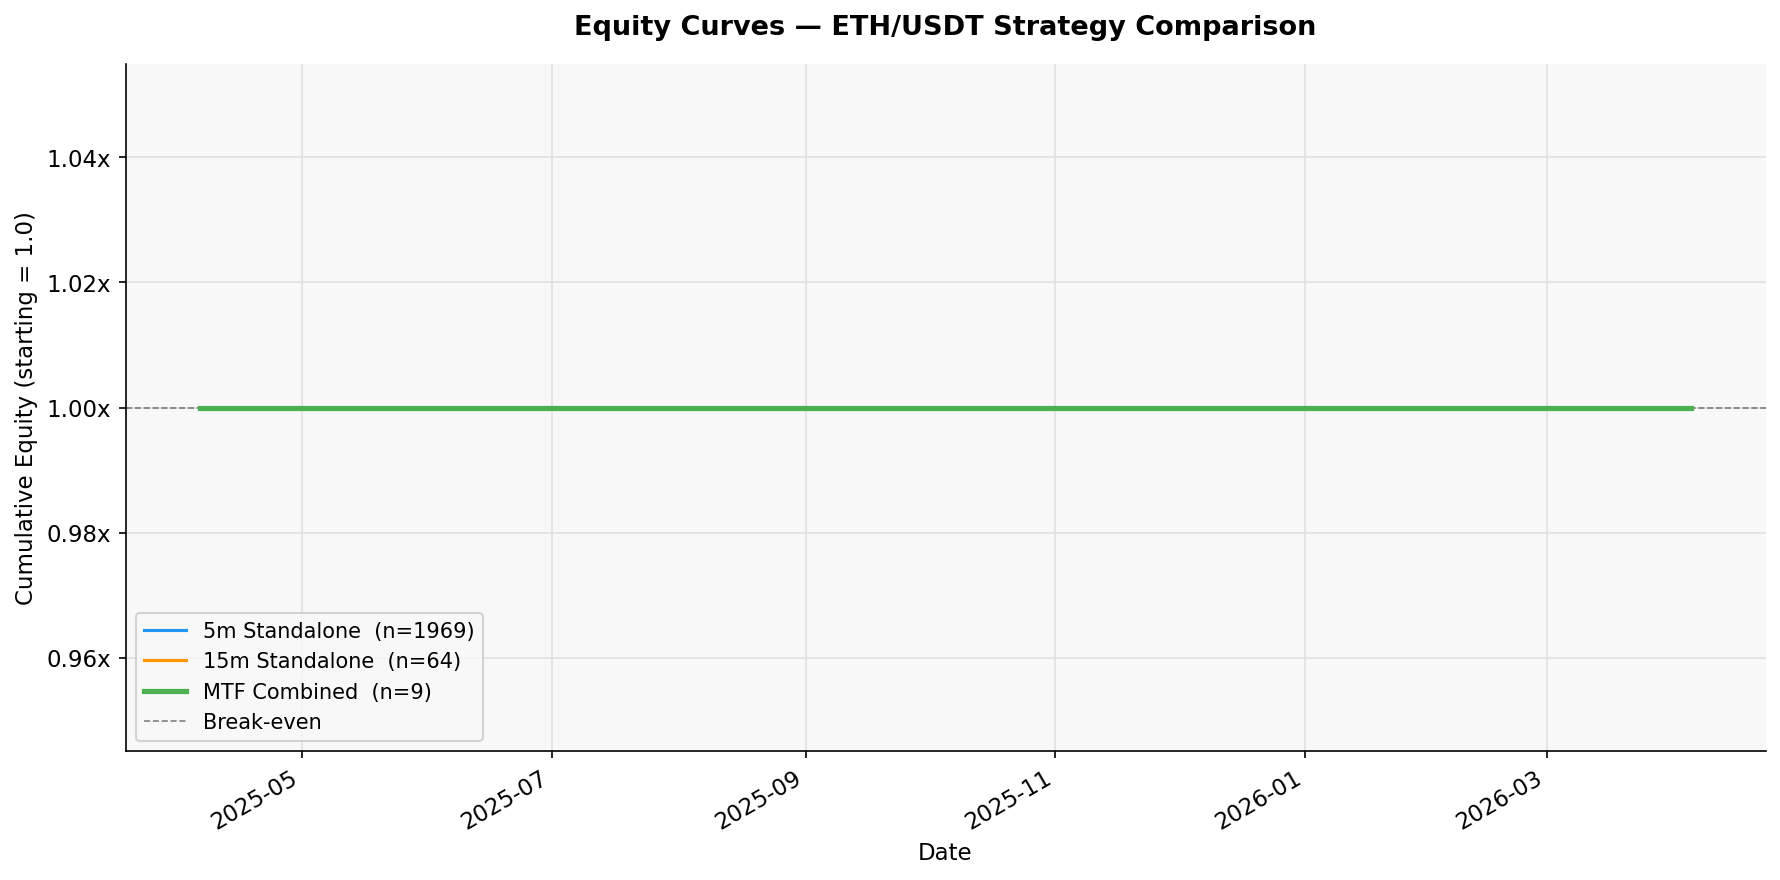
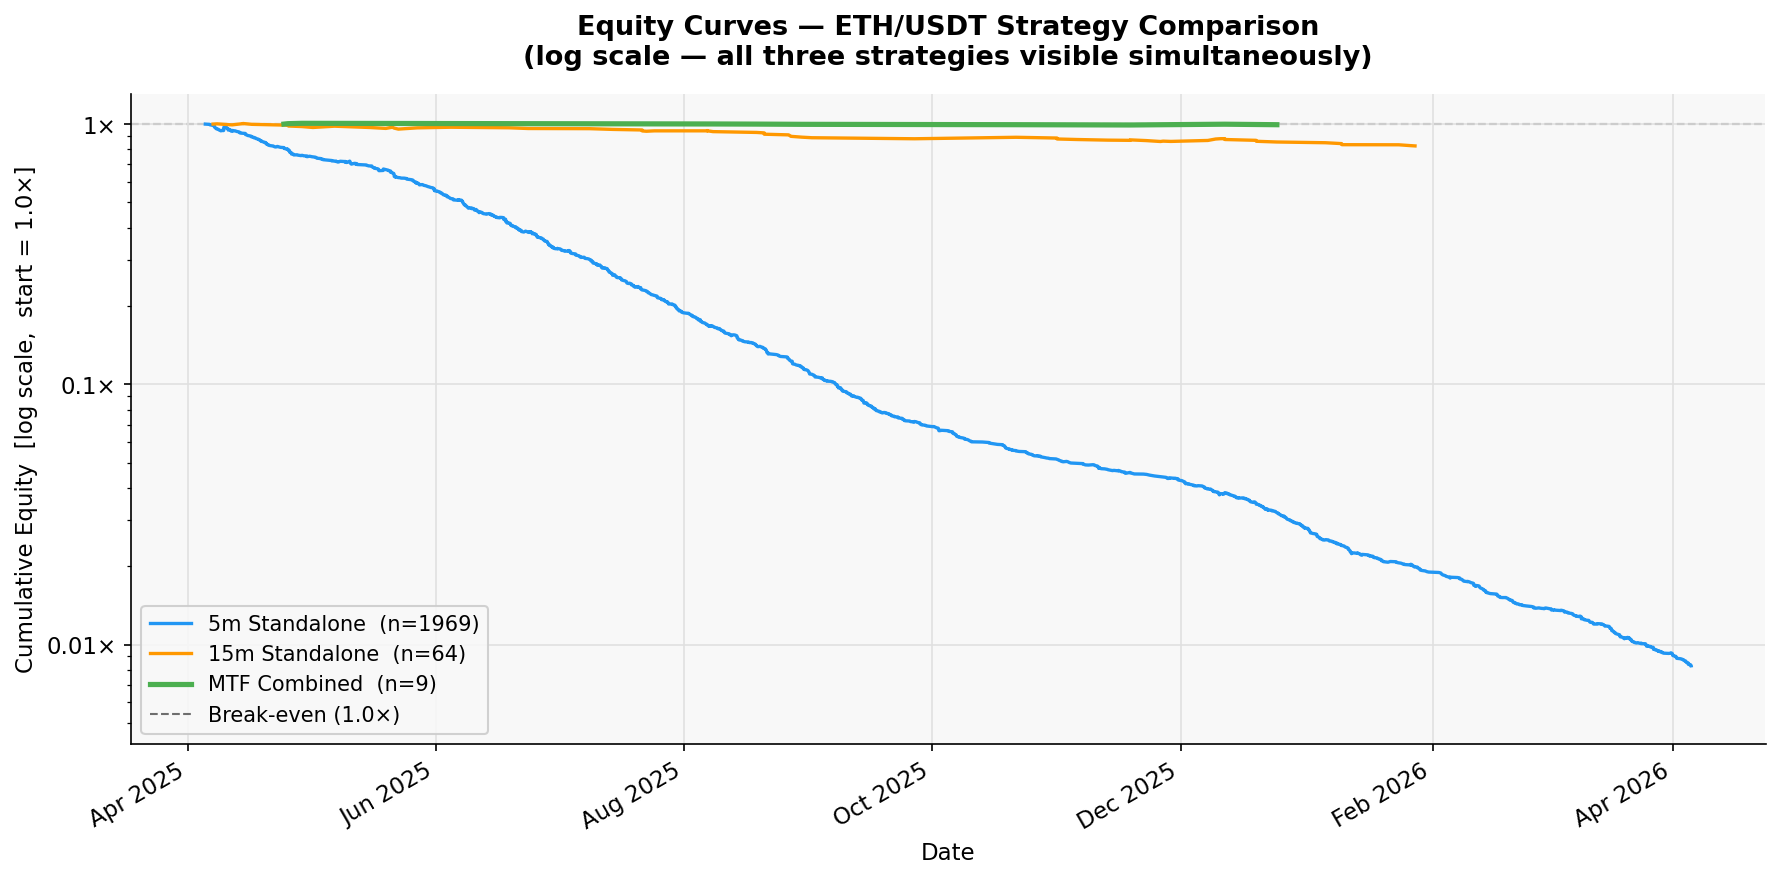
Fix equity curve Y-axis scaling
- Switch to log Y-axis so all three curves are visible simultaneously
  (5m collapses to 0.0083x, MTF stays near 1.0 — 120x range difference)
- Compute equity per-trade rather than daily resample, which was causing
  matplotlib autoscale to anchor on the MTF curve (nearly flat near 1.0)
  and clip the 5m collapse entirely off the chart
- Y limits set explicitly from 50% below actual minimum to 30% above max
- Tick labels formatted as multipliers (0.01x, 0.1x, 1.0x)
- Date axis formatted Month Year at 2-month intervals

diff --git a/fix_equity_curve.py b/fix_equity_curve.py
@@ -1,0 +1,125 @@
+"""
+fix_equity_curve.py
+Regenerates figures/equity_curve_comparison.png with:
+  - Log Y-axis so all three curves are visible simultaneously
+  - Y-axis anchored at 1.0 start, ranging from actual minimum to above 1.0
+  - Equity computed by cumulative product at each trade (not daily resample),
+    then plotted against trade-entry date for accuracy
+"""
+
+import math
+import pandas as pd
+import matplotlib
+matplotlib.use('Agg')
+import matplotlib.pyplot as plt
+import matplotlib.ticker as mticker
+import matplotlib.dates as mdates
+
+plt.rcParams.update({
+    'figure.dpi':        150,
+    'figure.facecolor':  'white',
+    'axes.facecolor':    '#f8f8f8',
+    'axes.grid':         True,
+    'grid.color':        '#e0e0e0',
+    'grid.linewidth':    0.8,
+    'axes.spines.top':   False,
+    'axes.spines.right': False,
+    'font.family':       'DejaVu Sans',
+    'font.size':         11,
+    'axes.titlesize':    13,
+    'axes.labelsize':    11,
+    'legend.fontsize':   10,
+    'legend.framealpha': 0.90,
+})
+
+PALETTE = {
+    '5m Standalone':  '#2196F3',
+    '15m Standalone': '#FF9800',
+    'MTF Combined':   '#4CAF50',
+}
+
+
+def load_trades(path):
+    df = pd.read_csv(path)
+    df['timestamp'] = pd.to_datetime(df['timestamp'])
+    return df.sort_values('timestamp').reset_index(drop=True)
+
+
+def equity_curve(trades_df):
+    """
+    Returns a (timestamps, equity_values) pair.
+    Equity starts at 1.0 before the first trade and updates at each
+    trade exit — no daily resampling, so the full collapse is preserved.
+    """
+    if trades_df.empty:
+        return pd.Series(dtype=float)
+    pnl = trades_df['pnl_pct'].values / 100.0
+    eq  = [1.0]                           # starting equity
+    ts  = [trades_df['timestamp'].iloc[0] - pd.Timedelta(days=1)]  # anchor point
+    cumulative = 1.0
+    for i, r in enumerate(pnl):
+        cumulative *= (1.0 + r)
+        eq.append(cumulative)
+        ts.append(trades_df['timestamp'].iloc[i])
+    return pd.Series(eq, index=ts)
+
+
+trades_5m  = load_trades('paper_outputs/mtf_trades_5m.csv')
+trades_15m = load_trades('paper_outputs/mtf_trades_15m.csv')
+trades_mtf = load_trades('paper_outputs/mtf_trades_combined.csv')
+
+eq5   = equity_curve(trades_5m)
+eq15  = equity_curve(trades_15m)
+eqmtf = equity_curve(trades_mtf)
+
+# Debug — confirm curves reach expected ranges
+for name, eq in [('5m', eq5), ('15m', eq15), ('MTF', eqmtf)]:
+    print(f'  {name}: start={eq.iloc[0]:.4f}  end={eq.iloc[-1]:.4f}  '
+          f'min={eq.min():.4f}  max={eq.max():.4f}')
+
+# ── Plot ───────────────────────────────────────────────────────────────────
+fig, ax = plt.subplots(figsize=(12, 6))
+
+for eq, label in [(eq5, '5m Standalone'), (eq15, '15m Standalone'), (eqmtf, 'MTF Combined')]:
+    n = len(trades_5m) if label == '5m Standalone' else \
+        len(trades_15m) if label == '15m Standalone' else len(trades_mtf)
+    lw = 2.5 if label == 'MTF Combined' else 1.6
+    ax.plot(eq.index, eq.values,
+            label=f'{label}  (n={n})',
+            color=PALETTE[label],
+            linewidth=lw,
+            zorder=3 if label == 'MTF Combined' else 2)
+
+ax.axhline(1.0, color='#333333', linewidth=1.0, linestyle='--',
+           alpha=0.7, label='Break-even (1.0×)', zorder=1)
+
+# Log scale — shows all three curves despite 100× difference in range
+ax.set_yscale('log')
+
+# Y limits: from slightly below actual minimum to slightly above 1.0
+all_vals = pd.concat([eq5, eq15, eqmtf])
+y_min = max(all_vals.min() * 0.5, 1e-4)   # 50% below actual min, floor at 0.0001
+y_max = all_vals.max() * 1.3
+ax.set_ylim(y_min, y_max)
+
+# Tick labels as multipliers (e.g. 0.01×, 0.1×, 1.0×)
+ax.yaxis.set_major_formatter(
+    mticker.FuncFormatter(lambda y, _: f'{y:.3g}×')
+)
+ax.yaxis.set_minor_formatter(mticker.NullFormatter())
+
+ax.set_title('Equity Curves — ETH/USDT Strategy Comparison\n'
+             '(log scale — all three strategies visible simultaneously)',
+             fontweight='bold', pad=14)
+ax.set_xlabel('Date')
+ax.set_ylabel('Cumulative Equity  [log scale,  start = 1.0×]')
+ax.legend(loc='lower left')
+ax.xaxis.set_major_formatter(mdates.DateFormatter('%b %Y'))
+ax.xaxis.set_major_locator(mdates.MonthLocator(interval=2))
+fig.autofmt_xdate()
+fig.tight_layout()
+
+out = 'figures/equity_curve_comparison.png'
+fig.savefig(out, dpi=150, bbox_inches='tight')
+plt.close(fig)
+print(f'✓ Saved {out}')
